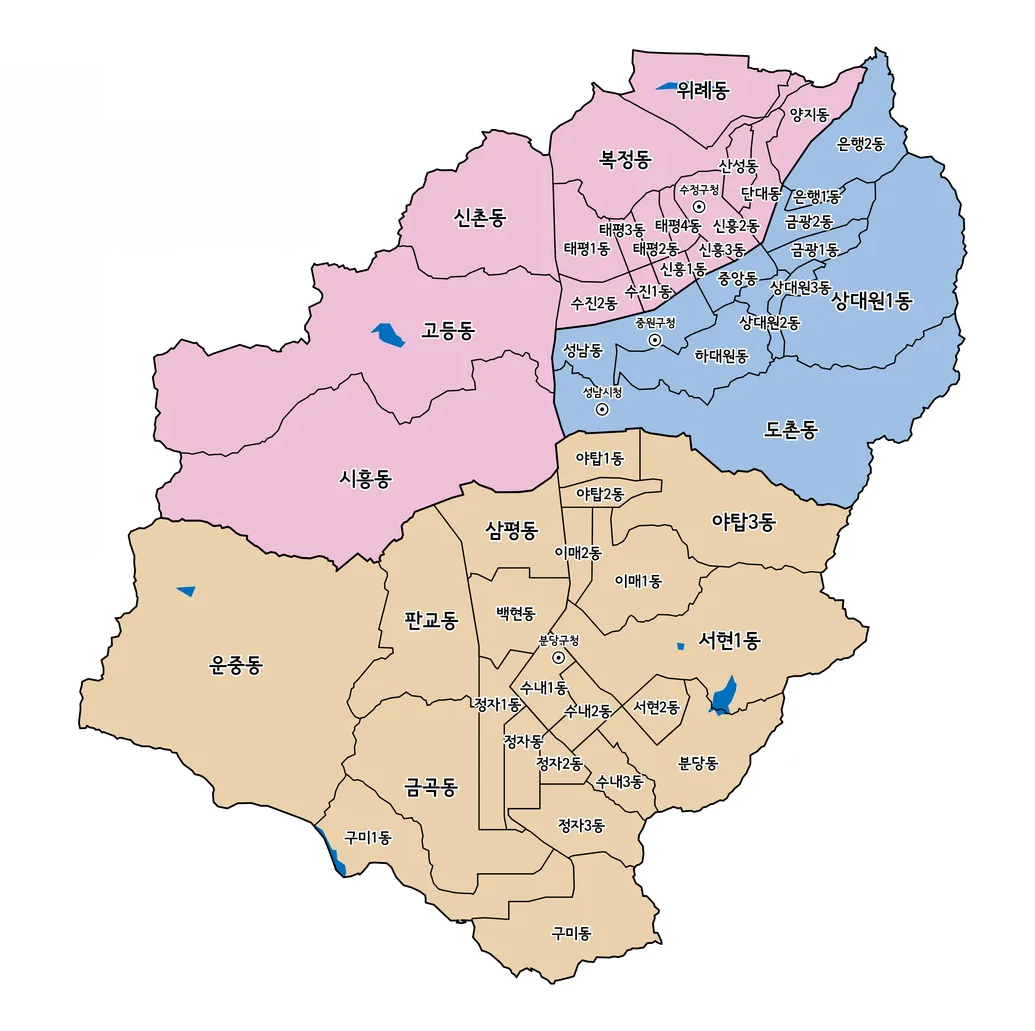
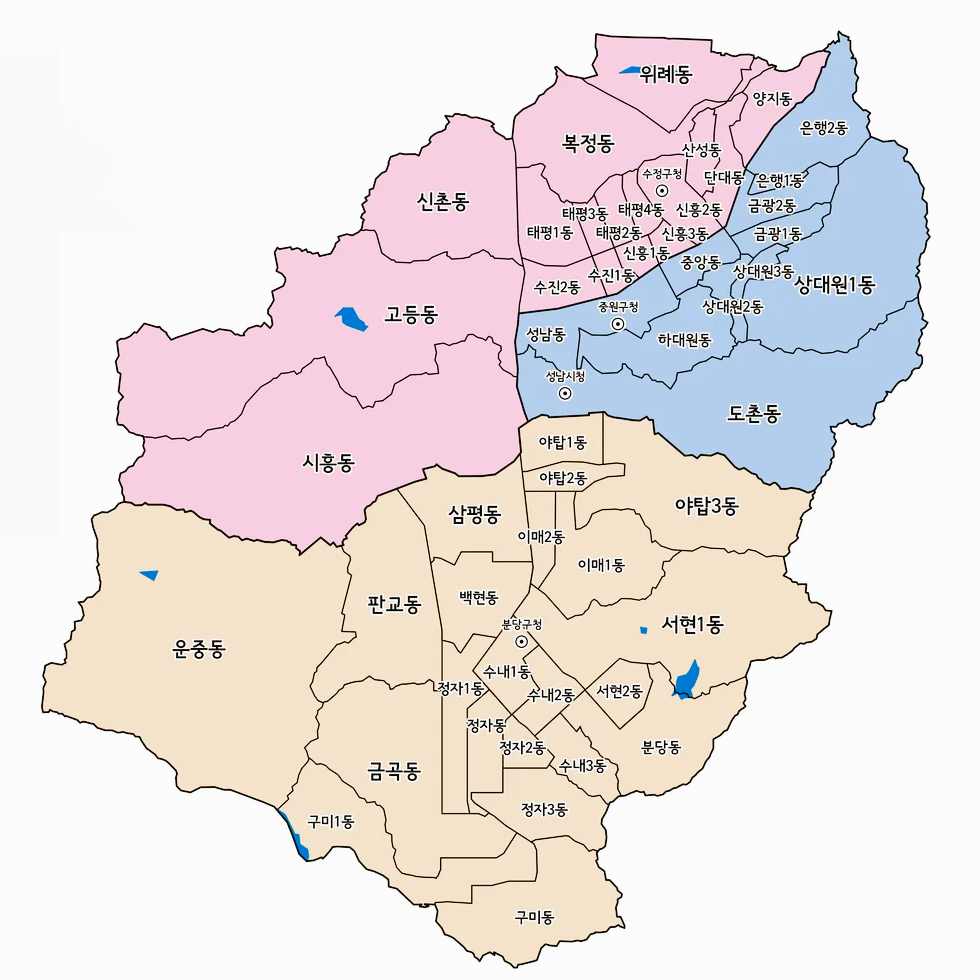
한눈에보기-박스 겹침 수정

diff --git a/src/app/data/elderlyDongData.ts b/src/app/data/elderlyDongData.ts
@@ -1,0 +1,63 @@
+export interface ElderlyDongData {
+  dong: string;
+  elderlyPopulation: number;
+  facilityCount: number;
+  medicalWelfareFacilities: number;
+  housingWelfareFacilities: number;
+  welfareCenters: number;
+  demandScore: number;
+  status: '공급 부족' | '양호';
+}
+
+export const elderlyDongs: ElderlyDongData[] = [
+  { dong: "금광2동", elderlyPopulation: 5325, facilityCount: 0, medicalWelfareFacilities: 0, housingWelfareFacilities: 0, welfareCenters: 0, demandScore: 247.85506, status: "공급 부족" },
+  { dong: "위례동", elderlyPopulation: 7203, facilityCount: 2, medicalWelfareFacilities: 2, housingWelfareFacilities: 0, welfareCenters: 0, demandScore: 245.089202, status: "공급 부족" },
+  { dong: "은행2동", elderlyPopulation: 5245, facilityCount: 0, medicalWelfareFacilities: 0, housingWelfareFacilities: 0, welfareCenters: 0, demandScore: 244.131416, status: "공급 부족" },
+  { dong: "신흥2동", elderlyPopulation: 5183, facilityCount: 0, medicalWelfareFacilities: 0, housingWelfareFacilities: 0, welfareCenters: 0, demandScore: 241.245592, status: "공급 부족" },
+  { dong: "서현1동", elderlyPopulation: 4457, facilityCount: 0, medicalWelfareFacilities: 0, housingWelfareFacilities: 0, welfareCenters: 0, demandScore: 207.453522, status: "공급 부족" },
+  { dong: "구미동", elderlyPopulation: 6047, facilityCount: 2, medicalWelfareFacilities: 2, housingWelfareFacilities: 0, welfareCenters: 0, demandScore: 205.755158, status: "공급 부족" },
+  { dong: "야탑3동", elderlyPopulation: 5447, facilityCount: 1, medicalWelfareFacilities: 1, housingWelfareFacilities: 0, welfareCenters: 0, demandScore: 202.388078, status: "공급 부족" },
+  { dong: "이매1동", elderlyPopulation: 3969, facilityCount: 0, medicalWelfareFacilities: 0, housingWelfareFacilities: 0, welfareCenters: 0, demandScore: 184.739293, status: "공급 부족" },
+  { dong: "금곡동", elderlyPopulation: 5701, facilityCount: 2, medicalWelfareFacilities: 1, housingWelfareFacilities: 1, welfareCenters: 0, demandScore: 172.251882, status: "공급 부족" },
+  { dong: "백현동", elderlyPopulation: 4162, facilityCount: 1, medicalWelfareFacilities: 0, housingWelfareFacilities: 0, welfareCenters: 1, demandScore: 164.831844, status: "공급 부족" },
+  { dong: "하대원동", elderlyPopulation: 4350, facilityCount: 1, medicalWelfareFacilities: 1, housingWelfareFacilities: 0, welfareCenters: 0, demandScore: 161.628077, status: "공급 부족" },
+  { dong: "분당동", elderlyPopulation: 4309, facilityCount: 1, medicalWelfareFacilities: 1, housingWelfareFacilities: 0, welfareCenters: 0, demandScore: 160.104686, status: "공급 부족" },
+  { dong: "상대원1동", elderlyPopulation: 5274, facilityCount: 2, medicalWelfareFacilities: 1, housingWelfareFacilities: 0, welfareCenters: 1, demandScore: 159.350365, status: "공급 부족" },
+  { dong: "야탑1동", elderlyPopulation: 3405, facilityCount: 0, medicalWelfareFacilities: 0, housingWelfareFacilities: 0, welfareCenters: 0, demandScore: 158.487602, status: "공급 부족" },
+  { dong: "도촌동", elderlyPopulation: 4712, facilityCount: 3, medicalWelfareFacilities: 3, housingWelfareFacilities: 0, welfareCenters: 0, demandScore: 152.95644, status: "양호" },
+  { dong: "단대동", elderlyPopulation: 3284, facilityCount: 0, medicalWelfareFacilities: 0, housingWelfareFacilities: 0, welfareCenters: 0, demandScore: 152.85559, status: "공급 부족" },
+  { dong: "운중동", elderlyPopulation: 4488, facilityCount: 2, medicalWelfareFacilities: 2, housingWelfareFacilities: 0, welfareCenters: 0, demandScore: 152.708641, status: "양호" },
+  { dong: "중앙동", elderlyPopulation: 3220, facilityCount: 0, medicalWelfareFacilities: 0, housingWelfareFacilities: 0, welfareCenters: 0, demandScore: 149.876675, status: "공급 부족" },
+  { dong: "삼평동", elderlyPopulation: 3186, facilityCount: 0, medicalWelfareFacilities: 0, housingWelfareFacilities: 0, welfareCenters: 0, demandScore: 148.294126, status: "공급 부족" },
+  { dong: "신흥1동", elderlyPopulation: 3114, facilityCount: 0, medicalWelfareFacilities: 0, housingWelfareFacilities: 0, welfareCenters: 0, demandScore: 144.942847, status: "공급 부족" },
+  { dong: "정자1동", elderlyPopulation: 4242, facilityCount: 2, medicalWelfareFacilities: 2, housingWelfareFacilities: 0, welfareCenters: 0, demandScore: 144.338247, status: "양호" },
+  { dong: "판교동", elderlyPopulation: 3080, facilityCount: 0, medicalWelfareFacilities: 0, housingWelfareFacilities: 0, welfareCenters: 0, demandScore: 143.360298, status: "공급 부족" },
+  { dong: "수진2동", elderlyPopulation: 3952, facilityCount: 2, medicalWelfareFacilities: 2, housingWelfareFacilities: 0, welfareCenters: 0, demandScore: 134.47071, status: "양호" },
+  { dong: "태평1동", elderlyPopulation: 3549, facilityCount: 1, medicalWelfareFacilities: 1, housingWelfareFacilities: 0, welfareCenters: 0, demandScore: 131.866218, status: "공급 부족" },
+  { dong: "서현2동", elderlyPopulation: 2778, facilityCount: 0, medicalWelfareFacilities: 0, housingWelfareFacilities: 0, welfareCenters: 0, demandScore: 129.303541, status: "공급 부족" },
+  { dong: "성남동", elderlyPopulation: 7149, facilityCount: 6, medicalWelfareFacilities: 4, housingWelfareFacilities: 1, welfareCenters: 1, demandScore: 126.101017, status: "양호" },
+  { dong: "태평2동", elderlyPopulation: 3341, facilityCount: 1, medicalWelfareFacilities: 1, housingWelfareFacilities: 0, welfareCenters: 0, demandScore: 124.137795, status: "공급 부족" },
+  { dong: "신흥3동", elderlyPopulation: 2572, facilityCount: 0, medicalWelfareFacilities: 0, housingWelfareFacilities: 0, welfareCenters: 0, demandScore: 119.715158, status: "공급 부족" },
+  { dong: "야탑2동", elderlyPopulation: 3486, facilityCount: 3, medicalWelfareFacilities: 3, housingWelfareFacilities: 0, welfareCenters: 0, demandScore: 113.1592, status: "양호" },
+  { dong: "태평3동", elderlyPopulation: 3013, facilityCount: 1, medicalWelfareFacilities: 1, housingWelfareFacilities: 0, welfareCenters: 0, demandScore: 111.950666, status: "양호" },
+  { dong: "구미1동", elderlyPopulation: 2792, facilityCount: 1, medicalWelfareFacilities: 0, housingWelfareFacilities: 1, welfareCenters: 0, demandScore: 110.574365, status: "양호" },
+  { dong: "상대원3동", elderlyPopulation: 2970, facilityCount: 1, medicalWelfareFacilities: 1, housingWelfareFacilities: 0, welfareCenters: 0, demandScore: 110.352963, status: "양호" },
+  { dong: "정자동", elderlyPopulation: 2337, facilityCount: 0, medicalWelfareFacilities: 0, housingWelfareFacilities: 0, welfareCenters: 0, demandScore: 108.776953, status: "공급 부족" },
+  { dong: "정자2동", elderlyPopulation: 2840, facilityCount: 1, medicalWelfareFacilities: 1, housingWelfareFacilities: 0, welfareCenters: 0, demandScore: 105.522699, status: "양호" },
+  { dong: "양지동", elderlyPopulation: 2183, facilityCount: 0, medicalWelfareFacilities: 0, housingWelfareFacilities: 0, welfareCenters: 0, demandScore: 101.608938, status: "공급 부족" },
+  { dong: "금광1동", elderlyPopulation: 2897, facilityCount: 2, medicalWelfareFacilities: 2, housingWelfareFacilities: 0, welfareCenters: 0, demandScore: 98.573291, status: "양호" },
+  { dong: "태평4동", elderlyPopulation: 2627, facilityCount: 1, medicalWelfareFacilities: 1, housingWelfareFacilities: 0, welfareCenters: 0, demandScore: 97.608496, status: "양호" },
+  { dong: "수내1동", elderlyPopulation: 2572, facilityCount: 1, medicalWelfareFacilities: 1, housingWelfareFacilities: 0, welfareCenters: 0, demandScore: 95.564923, status: "양호" },
+  { dong: "은행1동", elderlyPopulation: 1912, facilityCount: 0, medicalWelfareFacilities: 0, housingWelfareFacilities: 0, welfareCenters: 0, demandScore: 88.995094, status: "공급 부족" },
+  { dong: "고등동", elderlyPopulation: 1810, facilityCount: 0, medicalWelfareFacilities: 0, housingWelfareFacilities: 0, welfareCenters: 0, demandScore: 84.247448, status: "공급 부족" },
+  { dong: "이매2동", elderlyPopulation: 2433, facilityCount: 2, medicalWelfareFacilities: 2, housingWelfareFacilities: 0, welfareCenters: 0, demandScore: 82.785232, status: "양호" },
+  { dong: "정자3동", elderlyPopulation: 2514, facilityCount: 2, medicalWelfareFacilities: 0, housingWelfareFacilities: 1, welfareCenters: 1, demandScore: 82.113392, status: "양호" },
+  { dong: "수진1동", elderlyPopulation: 3166, facilityCount: 4, medicalWelfareFacilities: 3, housingWelfareFacilities: 1, welfareCenters: 0, demandScore: 80.794712, status: "양호" },
+  { dong: "수내3동", elderlyPopulation: 1555, facilityCount: 0, medicalWelfareFacilities: 0, housingWelfareFacilities: 0, welfareCenters: 0, demandScore: 72.378332, status: "공급 부족" },
+  { dong: "수내2동", elderlyPopulation: 1244, facilityCount: 0, medicalWelfareFacilities: 0, housingWelfareFacilities: 0, welfareCenters: 0, demandScore: 57.902666, status: "공급 부족" },
+  { dong: "산성동", elderlyPopulation: 1121, facilityCount: 1, medicalWelfareFacilities: 0, housingWelfareFacilities: 0, welfareCenters: 1, demandScore: 44.396083, status: "양호" },
+  { dong: "복정동", elderlyPopulation: 1356, facilityCount: 2, medicalWelfareFacilities: 1, housingWelfareFacilities: 0, welfareCenters: 1, demandScore: 40.970628, status: "양호" },
+  { dong: "신촌동", elderlyPopulation: 608, facilityCount: 0, medicalWelfareFacilities: 0, housingWelfareFacilities: 0, welfareCenters: 0, demandScore: 28.299695, status: "공급 부족" },
+  { dong: "상대원2동", elderlyPopulation: 711, facilityCount: 1, medicalWelfareFacilities: 1, housingWelfareFacilities: 0, welfareCenters: 0, demandScore: 26.417831, status: "양호" },
+  { dong: "시흥동", elderlyPopulation: 729, facilityCount: 2, medicalWelfareFacilities: 1, housingWelfareFacilities: 1, welfareCenters: 0, demandScore: 22.026245, status: "양호" },
+];

diff --git a/src/app/data/youthDongData.ts b/src/app/data/youthDongData.ts
@@ -1,0 +1,62 @@
+export interface YouthDongData {
+  dong: string;
+  totalPopulation: number;
+  teenPopulation: number;
+  youthPopulation: number;
+  performanceVenues: number;
+  cinemas: number;
+  status: '공급 부족' | '양호';
+}
+
+export const youthDongs: YouthDongData[] = [
+  { dong: "신흥1동", totalPopulation: 203572, teenPopulation: 24387, youthPopulation: 42331, performanceVenues: 0, cinemas: 0, status: "공급 부족" },
+  { dong: "신흥2동", totalPopulation: 469833, teenPopulation: 78388, youthPopulation: 93191, performanceVenues: 0, cinemas: 0, status: "공급 부족" },
+  { dong: "신흥3동", totalPopulation: 905794, teenPopulation: 131466, youthPopulation: 184268, performanceVenues: 0, cinemas: 0, status: "공급 부족" },
+  { dong: "태평1동", totalPopulation: 232389, teenPopulation: 28691, youthPopulation: 48746, performanceVenues: 0, cinemas: 0, status: "공급 부족" },
+  { dong: "태평2동", totalPopulation: 11797, teenPopulation: 1318, youthPopulation: 2599, performanceVenues: 0, cinemas: 0, status: "공급 부족" },
+  { dong: "태평3동", totalPopulation: 16089, teenPopulation: 2335, youthPopulation: 3528, performanceVenues: 0, cinemas: 0, status: "공급 부족" },
+  { dong: "태평4동", totalPopulation: 27981, teenPopulation: 3651, youthPopulation: 5811, performanceVenues: 0, cinemas: 10, status: "양호" },
+  { dong: "수진1동", totalPopulation: 26767, teenPopulation: 3485, youthPopulation: 5520, performanceVenues: 0, cinemas: 0, status: "공급 부족" },
+  { dong: "수진2동", totalPopulation: 19608, teenPopulation: 2032, youthPopulation: 3707, performanceVenues: 0, cinemas: 0, status: "공급 부족" },
+  { dong: "단대동", totalPopulation: 23438, teenPopulation: 2826, youthPopulation: 5088, performanceVenues: 0, cinemas: 0, status: "공급 부족" },
+  { dong: "산성동", totalPopulation: 14162, teenPopulation: 1772, youthPopulation: 2729, performanceVenues: 0, cinemas: 0, status: "공급 부족" },
+  { dong: "양지동", totalPopulation: 25878, teenPopulation: 4148, youthPopulation: 4721, performanceVenues: 1, cinemas: 0, status: "양호" },
+  { dong: "복정동", totalPopulation: 26316, teenPopulation: 4555, youthPopulation: 5222, performanceVenues: 1, cinemas: 7, status: "양호" },
+  { dong: "위례동", totalPopulation: 10453, teenPopulation: 1637, youthPopulation: 3584, performanceVenues: 0, cinemas: 0, status: "공급 부족" },
+  { dong: "신촌동", totalPopulation: 24396, teenPopulation: 4200, youthPopulation: 4955, performanceVenues: 0, cinemas: 0, status: "공급 부족" },
+  { dong: "고등동", totalPopulation: 4421, teenPopulation: 561, youthPopulation: 837, performanceVenues: 0, cinemas: 0, status: "공급 부족" },
+  { dong: "시흥동", totalPopulation: 23593, teenPopulation: 4099, youthPopulation: 4351, performanceVenues: 0, cinemas: 0, status: "공급 부족" },
+  { dong: "성남동", totalPopulation: 22454, teenPopulation: 2460, youthPopulation: 4440, performanceVenues: 0, cinemas: 0, status: "공급 부족" },
+  { dong: "중앙동", totalPopulation: 2911, teenPopulation: 338, youthPopulation: 524, performanceVenues: 0, cinemas: 0, status: "공급 부족" },
+  { dong: "금광1동", totalPopulation: 11054, teenPopulation: 1132, youthPopulation: 2014, performanceVenues: 0, cinemas: 0, status: "공급 부족" },
+  { dong: "금광2동", totalPopulation: 30649, teenPopulation: 5801, youthPopulation: 6373, performanceVenues: 0, cinemas: 10, status: "양호" },
+  { dong: "은행1동", totalPopulation: 17273, teenPopulation: 3118, youthPopulation: 3472, performanceVenues: 1, cinemas: 0, status: "양호" },
+  { dong: "은행2동", totalPopulation: 31835, teenPopulation: 3157, youthPopulation: 8361, performanceVenues: 0, cinemas: 6, status: "양호" },
+  { dong: "상대원1동", totalPopulation: 17879, teenPopulation: 3334, youthPopulation: 3523, performanceVenues: 2, cinemas: 0, status: "양호" },
+  { dong: "상대원2동", totalPopulation: 10381, teenPopulation: 2739, youthPopulation: 1294, performanceVenues: 0, cinemas: 0, status: "공급 부족" },
+  { dong: "상대원3동", totalPopulation: 13191, teenPopulation: 3111, youthPopulation: 2524, performanceVenues: 0, cinemas: 0, status: "공급 부족" },
+  { dong: "하대원동", totalPopulation: 10775, teenPopulation: 858, youthPopulation: 1988, performanceVenues: 0, cinemas: 0, status: "공급 부족" },
+  { dong: "도촌동", totalPopulation: 14334, teenPopulation: 1491, youthPopulation: 2952, performanceVenues: 0, cinemas: 0, status: "공급 부족" },
+  { dong: "분당동", totalPopulation: 3548, teenPopulation: 274, youthPopulation: 1150, performanceVenues: 1, cinemas: 7, status: "양호" },
+  { dong: "수내1동", totalPopulation: 4511, teenPopulation: 717, youthPopulation: 1257, performanceVenues: 0, cinemas: 0, status: "공급 부족" },
+  { dong: "수내2동", totalPopulation: 12046, teenPopulation: 1125, youthPopulation: 2445, performanceVenues: 0, cinemas: 0, status: "공급 부족" },
+  { dong: "수내3동", totalPopulation: 31635, teenPopulation: 3828, youthPopulation: 6128, performanceVenues: 0, cinemas: 0, status: "공급 부족" },
+  { dong: "정자동", totalPopulation: 10670, teenPopulation: 1000, youthPopulation: 2315, performanceVenues: 0, cinemas: 9, status: "양호" },
+  { dong: "정자1동", totalPopulation: 16525, teenPopulation: 1985, youthPopulation: 3729, performanceVenues: 0, cinemas: 8, status: "양호" },
+  { dong: "정자2동", totalPopulation: 15564, teenPopulation: 2528, youthPopulation: 2673, performanceVenues: 0, cinemas: 0, status: "공급 부족" },
+  { dong: "정자3동", totalPopulation: 26618, teenPopulation: 2956, youthPopulation: 5933, performanceVenues: 1, cinemas: 0, status: "공급 부족" },
+  { dong: "서현1동", totalPopulation: 8923, teenPopulation: 1291, youthPopulation: 1790, performanceVenues: 0, cinemas: 0, status: "공급 부족" },
+  { dong: "서현2동", totalPopulation: 38266, teenPopulation: 6141, youthPopulation: 6689, performanceVenues: 0, cinemas: 0, status: "공급 부족" },
+  { dong: "이매1동", totalPopulation: 45473, teenPopulation: 7178, youthPopulation: 7818, performanceVenues: 0, cinemas: 7, status: "양호" },
+  { dong: "이매2동", totalPopulation: 9289, teenPopulation: 1316, youthPopulation: 2280, performanceVenues: 0, cinemas: 0, status: "공급 부족" },
+  { dong: "야탑1동", totalPopulation: 20978, teenPopulation: 2547, youthPopulation: 4411, performanceVenues: 0, cinemas: 0, status: "공급 부족" },
+  { dong: "야탑2동", totalPopulation: 24537, teenPopulation: 4402, youthPopulation: 4694, performanceVenues: 0, cinemas: 0, status: "공급 부족" },
+  { dong: "야탑3동", totalPopulation: 12796, teenPopulation: 2497, youthPopulation: 2138, performanceVenues: 3, cinemas: 0, status: "양호" },
+  { dong: "판교동", totalPopulation: 30247, teenPopulation: 5092, youthPopulation: 7045, performanceVenues: 2, cinemas: 0, status: "양호" },
+  { dong: "삼평동", totalPopulation: 14183, teenPopulation: 1785, youthPopulation: 3145, performanceVenues: 0, cinemas: 0, status: "공급 부족" },
+  { dong: "백현동", totalPopulation: 16467, teenPopulation: 2990, youthPopulation: 3257, performanceVenues: 0, cinemas: 0, status: "공급 부족" },
+  { dong: "금곡동", totalPopulation: 13750, teenPopulation: 2159, youthPopulation: 3298, performanceVenues: 0, cinemas: 0, status: "공급 부족" },
+  { dong: "구미1동", totalPopulation: 16585, teenPopulation: 1950, youthPopulation: 2923, performanceVenues: 0, cinemas: 0, status: "공급 부족" },
+  { dong: "구미동", totalPopulation: 13522, teenPopulation: 1521, youthPopulation: 3457, performanceVenues: 0, cinemas: 0, status: "공급 부족" },
+  { dong: "운중동", totalPopulation: 13628, teenPopulation: 1489, youthPopulation: 3039, performanceVenues: 1, cinemas: 0, status: "양호" },
+];

diff --git a/src/app/pages/Overview.tsx b/src/app/pages/Overview.tsx
@@ -36,7 +36,7 @@ export default function Overview() {
                 </div>
               </div>
 
-              <div className="h-96 mb-6">
+              <div className="h-96 mb-6 overflow-hidden rounded-2xl">
                 <Map interactive={false} highlightMode="excess" />
               </div>
 
@@ -81,7 +81,7 @@ export default function Overview() {
                 </div>
               </div>
 
-              <div className="h-96 mb-6">
+              <div className="h-96 mb-6 overflow-hidden rounded-2xl">
                 <Map interactive={false} highlightMode="shortage" />
               </div>
 
